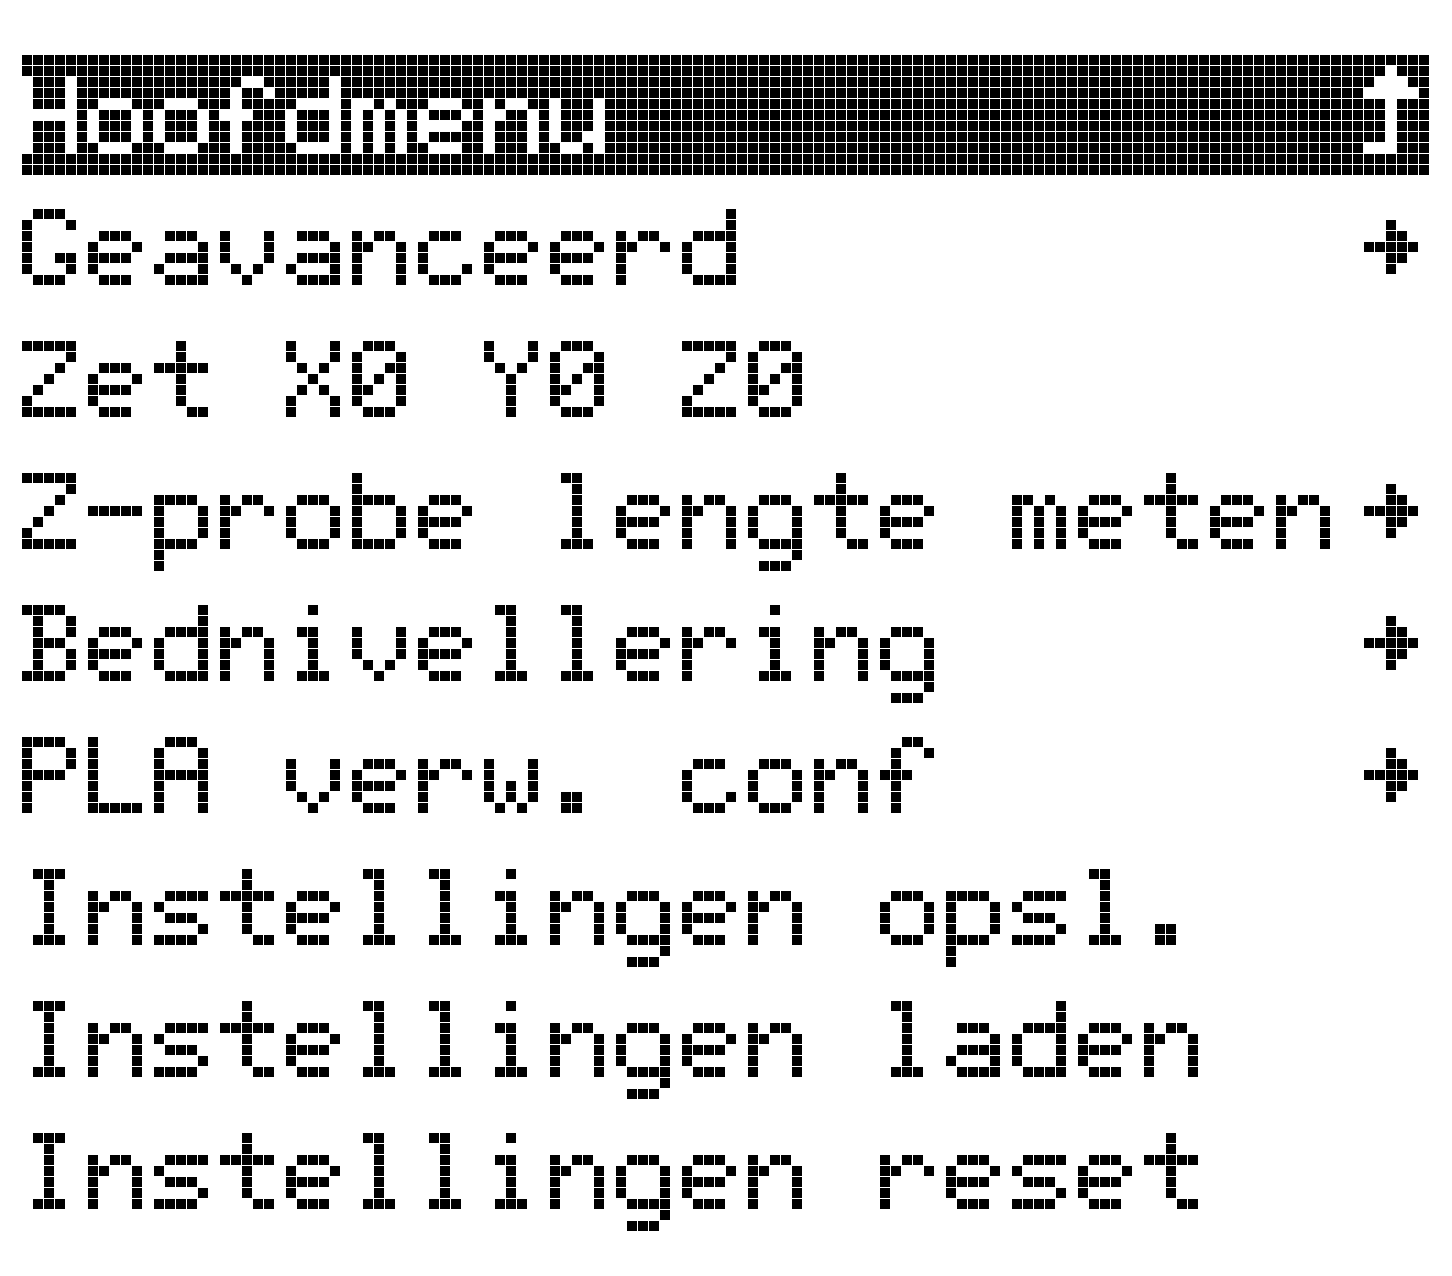
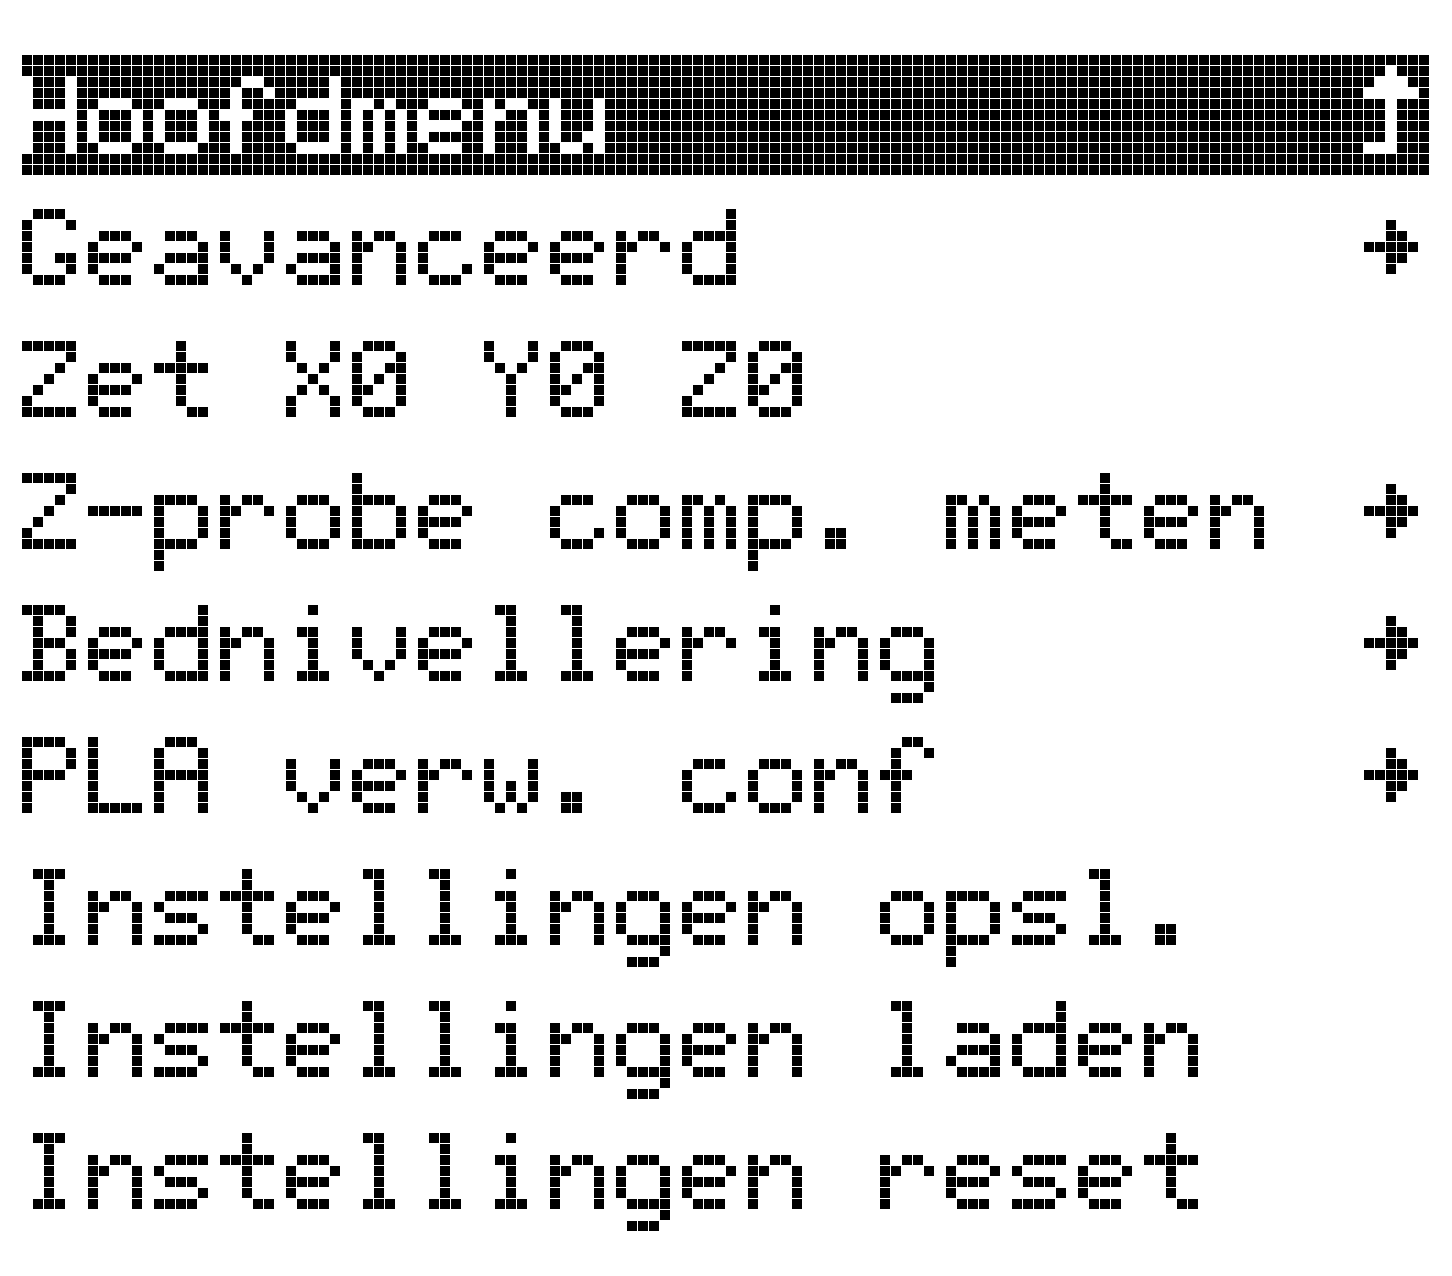
Extend documentation

diff --git a/README.md b/README.md
@@ -1,8 +1,34 @@
 # Printer in bedrijf stellen
 
-<!--Tussen stap 1 en stap 2: test of de eindstops werken-->
+## 1. Basis
+zoals in de gebruiksaanwijzing
+## 2. Motoren testen
+zoals in de gebruiksaanwijzing
+## 3. Verwarming van nozzle en bed
+zoals in de gebruiksaanwijzing
+## 4. Stel de extruder in
+zoals in de gebruiksaanwijzing
+## 5. Eindschakelaars
+1. Test of eindstop schakelaars goed aangesloten zijn via het menu `Beweging` -> `Eindstop status`.
+2. Monteer de schakelaar zoals in de gebruiksaanwijzing staat
+## 6. Auto home (nu thuispositie)
+## 7. Afstellen
+1. Denk aan het schoonmaken van de printkop
+2. Voer in het menu [`Configuratie`](#configuratie) de [`Zet X0 Y0 Z0`](#zet-x0-y0-z0) stap uit.
+3. Meet via menu [`Configuratie`](#configuratie) de [Z-probe compensatie](#z-probe-compensatie-meten).
+4. Voer de [bednivellering](#bednivellering) uit.
+## 8. Voorbereiding Cura
+Niet meer nodig 
+## 9. Cura installeren
+Zoals in het boekje, behalve:
 
-### Je eigen naam op de printer
+* De Start G-code hoeft in principe niet aangepast te worden. Waar we voorheen dus twee regels toe moesten voegen hoeft dat niet meer. Ik kan wel aanraden om daaronder de extrude waarde te verhogen van 3 naar 20. Dus: `G1 F200 E20 ;extrude 20mm of feed stock`. Dan zijn de skirt lijnen ook niet meer zo nodig omdat er bij de start al wat meer filament uit komt.
+* De versie G-code staat in de handleiding op RepRap. Alhoewel dat werkt is er ook Marlin te kiezen en dat is de software die op de printer staat. Beide werken bij mij maar Marlin lijkt mij dan beter.
+
+## 10. Klaar
+zoals in de gebruiksaanwijzing
+
+## Je eigen naam op de printer
 
 Plaats een bestandje genaamd `auto0.g` met de volgende inhoud:
 
@@ -12,7 +38,20 @@ M117 Harms printer
 
 Alles achter M117 zal met het opstarten van de printer op het scherm verschijnen.
 
+## Voor elke print
+
+Pagina 17
+
+Iedere keer wanneer de printer uit is geweest moet je de printer opnieuw afstellen. (ik denk niet dat dit tussen de prints nodig is aangezien de Z motoren dan niet uit zijn geweest?)
+
+1. Nozzle schoonmaken
+2. Glasplaat schoonmaken
+3. Draai bednivellering
+4. Instellingen opslaan
+
 # Schermen
+
+## Statusscherm
 
 Wanneer de printer start zie je het infoscherm. 
 
@@ -41,7 +80,7 @@ Wanneer het bed of de nozzle verwarmd worden verandert die status:
 
 Aan de bovenkant van de icoontjes staat de gewenste temperatuur, onder het icoontje de huidige temperatuur. De nozzle loopt vol tijdens het verwarmen. Als de nozzle warm is dan zal deze gevuld zijn wanneer het verwarmingselement aan staat en leeg zijn wanneer die uit is. Bij het bed is dat te zien aan het verdwijnen/verschijnen van het balkje rechts van het bed icoontje.
 
-## Tijdens het printen
+### Tijdens het printen
 Tijdens het printen verandert de X-Y-Z status in E-Z. E is de hoeveelheid filament die verbruikt is. Verder rouleert de printer ook tussen het percentage van de huidige print, de E (hoe lang de printer bezig is geweest met deze print), R (hoe lang het nog duurt). De geschatte tijd is in het begin nog te lang, als de printer even bezig is wordt deze betrouwbaarder.
 
 # Het menu
@@ -64,15 +103,18 @@ Hierin zijn de verschillende menu's beschikbaar.
 * `As verplaatsen`: verplaats de printkop en bed
 * `Naar thuispositie`: de printkop beweegt in alle richtingen tweemaal naar de eindschakelaars
 * `Motoren uit`: zet alle motoren uit zodat ze met de hand gedraaid kunnen worden
-* `Eindstop status`: stelt je in staat om alle eindstopschakelaars te testen
+* `Eindstop status`: stelt je in staat om alle eindstopschakelaars te testen. De schakelaar moet op `Nee` staan wanneer deze niet ingedrukt is.
 
 ### As verplaatsen
 
 ![](./menu-beweging-as-verplaatsen-volledig.png)
-Hier kunnen alle motoren bediend worden. De `Soft eindstops` optie begrenst de maximale bewegingsvrijheid softwarematig. Het is daarom aanbevolen de printer eerst in de thuispositie te brengen voor de beste werking. Bij het instellen van de X0Y0Z0 positie kan het nodig zijn deze optie uit te zetten.
+Hier kunnen alle motoren bediend worden. De `Soft eindstops` optie begrenst de maximale bewegingsvrijheid softwarematig. Het is daarom aanbevolen de printer eerst in de thuispositie te brengen voor de beste werking.
 
 > [!NOTE]  
 > De `Verplaats filament` optie zal een waarschuwing geven wanneer de nozzle koud is. Verwarm de nozzle eerst via het `Temperatuur` menu in het hoofdmenu.
+
+> [!NOTE]  
+> De `Soft eindstops` optie werkt niet voor de minimale Z-as positie omdat we de eindstop al een stukje boven het bed geraakt wordt.
 
 ## Temperatuur
 
@@ -99,20 +141,22 @@ Deze optie kan als volgt gebruikt worden:
 1. Zet de printer in de thuispositie, via de `Naar thuispositie` optie in het hoofdmenu.
 2. Verplaats via het menu `Beweging` -> `As verplaatsen` de X-as naar de linkerrand van de glasplaat, tot 2 cm vanaf de rand.
 3. Verplaats de Y-as naar de voorkant van de glasplaat, tot 4 cm vanaf de rand.
-4. Verplaats de Z-as nauwkeurig richting het printbed. Eerst met stappen van 1mm, het laatste stukje met 0.1mm. Meet met een papiertje tot je enige weerstand voelt tussen de nozzle en de glasplaat.
+4. Indien je geen Z-probe gaat gebruiken, ga nu hieronder door met de fijnafstelling van de Z-as
 5. Activeer nu de optie `Zet X0 Y0 Z0` in het `Configuratie` menu.
 6. Sla nu de instellingen op, via `Configuratie` -> `Instellingen opsl.`.
 
-Indien er geen Z-probe aanwezig is moeten de spindels handmatig rechtgezet worden, anders zijn de volgende stappen optioneel.
+#### Fijnafstelling Z-as
 
-1. Zet de printer uit (of de motoren in het menu `Beweging`).
-2. Beweeg met de hand de printkop naar links 
-3. Minimaliseer de afstand van de nozzle tot het bed met een papiertje door aan de linker spindel te draaien.
-4. Beweeg de printkop nu naar rechts
-5. Controleer de afstand van nozzle tot het bed. Corrigeer met de rechterspindel.
-6. Herhaal vanaf 2 om de Z-as zo goed mogelijk in te stellen.
+1. Verplaats de Z-as nauwkeurig richting het printbed. Eerst met stappen van 1mm, het laatste stukje met 0.1mm. Meet met een papiertje tot je enige weerstand voelt tussen de nozzle en de glasplaat.
+2. Activeer nu de optie `Zet X0 Y0 Z0` in het `Configuratie` menu.
+3. Sla nu de instellingen op, via `Configuratie` -> `Instellingen opsl.`.
+4. Verplaats X-as naar de rechterkant van het bed
+5. Probeer nu dezelfde weerstand rechts te krijgen door met de hand aan de rechter spindel te draaien
 
-### Z-probe lengte meten
+> [!NOTE]
+> Na het uitvoeren van Bednivellering wordt Z0 opnieuw bepaald aan de hand van de probe. Klopt de Z0 toch niet helemaal? Verander dan de `Z-probe comp.` in het `Bednivellering` menu en voer de bednivellering opnieuw uit.
+
+### Z-probe compensatie meten
 
 De printer moet weten na hoeveeel millimeter beweging de Z-probe eindstop klikt. Deze optie helpt je de afstand van de nozzle tot het schakelmoment te meten.
 
@@ -127,19 +171,25 @@ Bij het selecteren van deze optie wordt de volgende procedure gevolgd:
 7. De meting wordt gedaan
 8. De printer vraagt nu om de Z-probe te verwijderen, verwijder die
 9. Druk op de knop
-10. Verplaats nu via het menu de nozzle richting het printbed, meet met een papiertje
+10. Verplaats nu via het menu de nozzle richting het printbed, meet met een papiertje dat je een héél klein beetje weerstand voelt.
 11. Wanneer de nozzle het papietje net raakt, kies de optie `Klaar` in het menu
-12. De printer weet nu de lengte van de Z-probe. Sla via het `Configuratie` menu de instellingen op.
+12. De printer weet nu hoeveel die moet compenseren met de Z-probe. Sla via het `Configuratie` menu de instellingen op.
+
+> [!NOTE]
+> Zit de printkop te laag tijdens het printen? Dan zat je in deze stap te laag toen je `Klaar` koos in het menu. Je kan ook in het `Bednivellering` menu de `Z-probe comp.` waarde iets verhogen (en vice versa). Start een nieuwe bednivellering na het aanpassen.
 
 ### Bednivellering
 
 ![](./menu-configuratie-bednivellering.png)
 
 > [!IMPORTANT]  
-> Voor deze optie is het belangrijk dat de Z-probe lengte gemeten is. De meetwaarde staat in de `Z-probe len.` in dit menu.
+> Voor deze optie is het belangrijk dat de Z-probe compensatie gemeten is. De meetwaarde staat in de `Z-probe comp.` in dit menu.
+
+> [!CAUTION]
+> Om te voorkomen dat de Z-probe smelt, zorg ervoor dat de printkop kouder dan 50 graden is voordat je de probe bevestigt.
 
 1. Kies `Start bednivellering`
-2. De printer zal nu zonder bevesgiging in beeld naar de thuispositie gaan.
+2. De printer zal nu zonder bevesgiging in beeld naar de thuispositie gaan
 3. De printer vraagt om de Z-probe te bevestigen
 4. Druk na het bevestigen op de draaiknop
 5. Het bed wordt nu verwarmd
@@ -161,7 +211,7 @@ De snelkoppelingen in het menu `Temperatuur` kunnen hier geconfigureerd worden.
 Onderaan het menu staan opties om de instellingen op te slaan. Normaal gesproken verliest de printer alle gedane instellingen wanneer deze uitgezet wordt. Pas bij de `Instellingen opsl` optie worden de instellingen bewaard. Ook de `Instellingen reset` optie zal dus de instellingen resetten maar de bewaarde instellingen nog niet veranderen, daarvoor moeten de geresette instellingen ook nog een keer opgeslagen worden. De `Instellingen laden` zal de laatst opgeslagen instellingen weer inladen. Dat is hetzelfde als de printer uit/aan zetten.
 
 > [!NOTE]  
-> Er moet een duidelijke piep komen wanneer je de knop indrukt, anders is er niets opgeslagen.
+> Er moet een duidelijke piep bij het opslaan, anders is er niets opgeslagen.
 
 ## Afstellen tijdens het printen
 
@@ -179,4 +229,4 @@ Tijdens het printen heeft het hoofdmenu een extra opties om de print te pauzeren
 
 
 > [!NOTE]  
-> Alle instellingen die je hier aanpast gelden eenmalig
+> De instellingen die je hier aanpast gelden eenmalig
